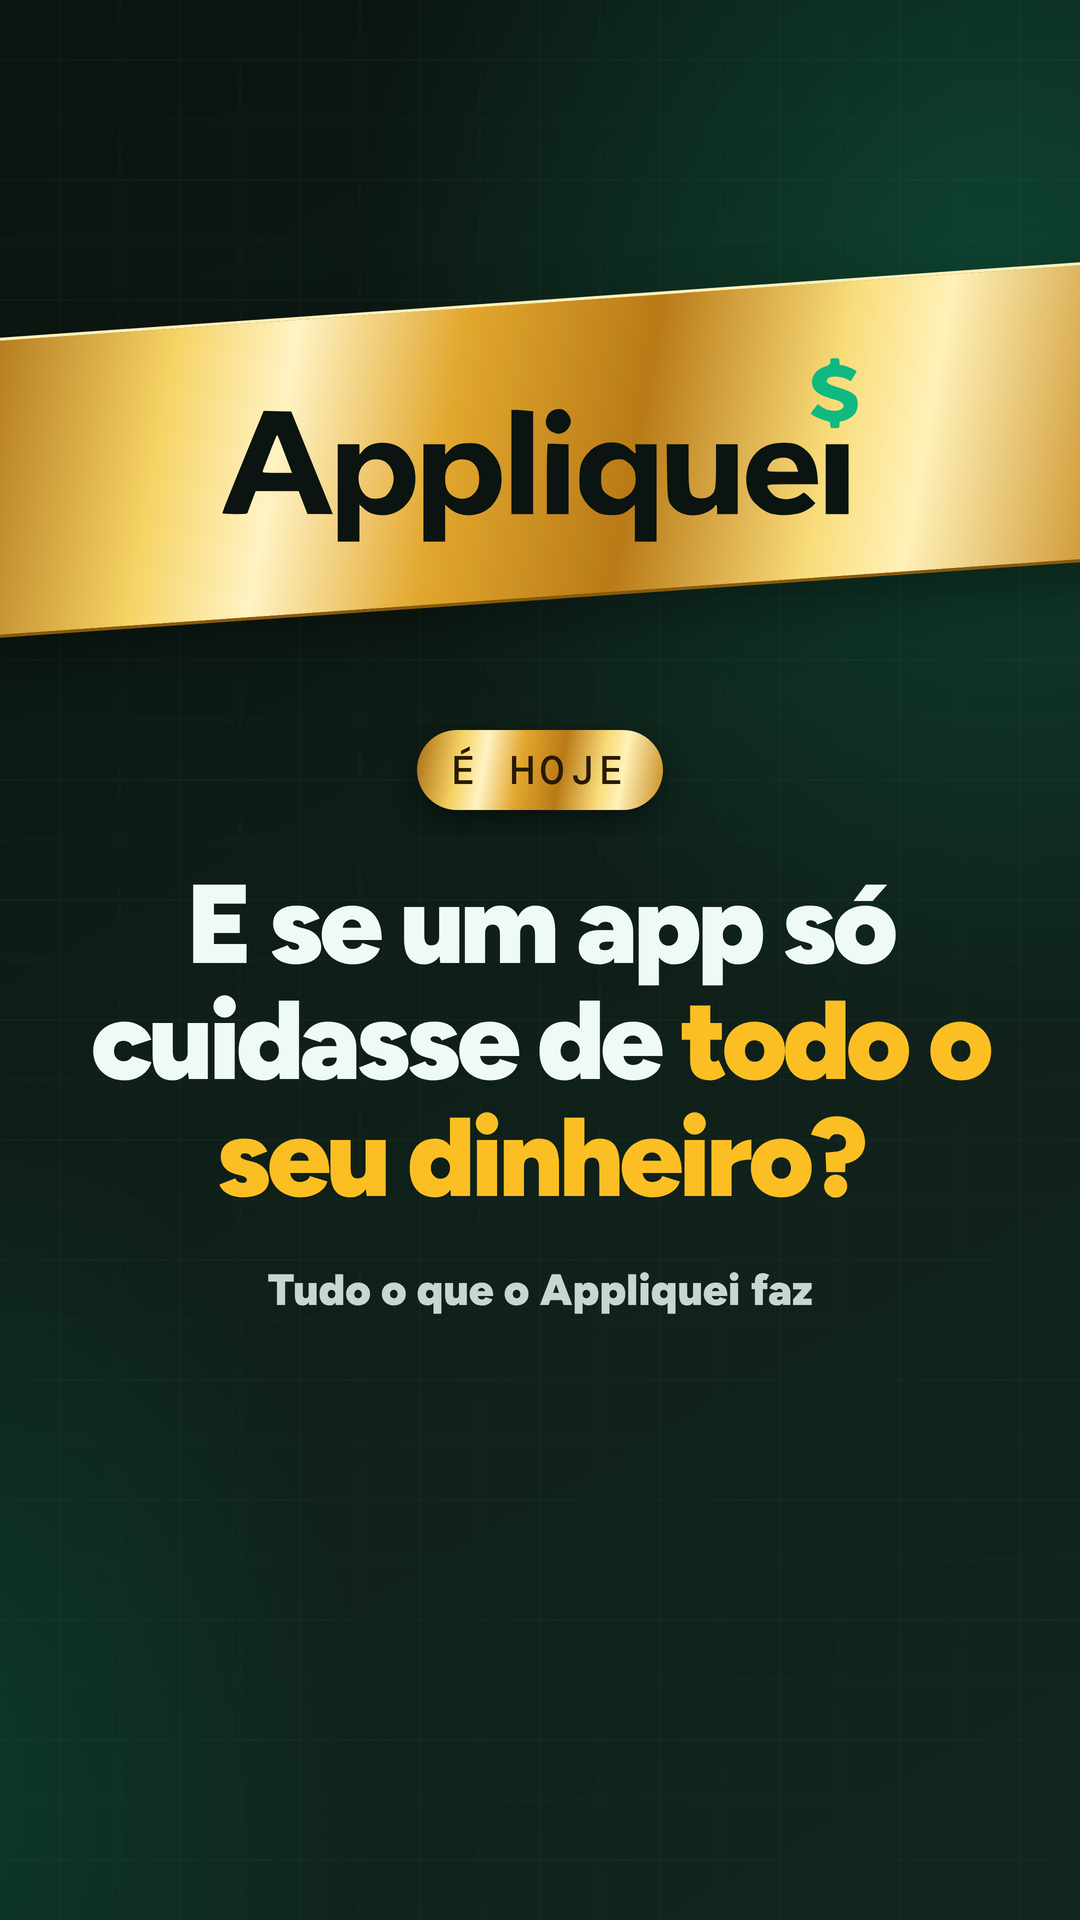
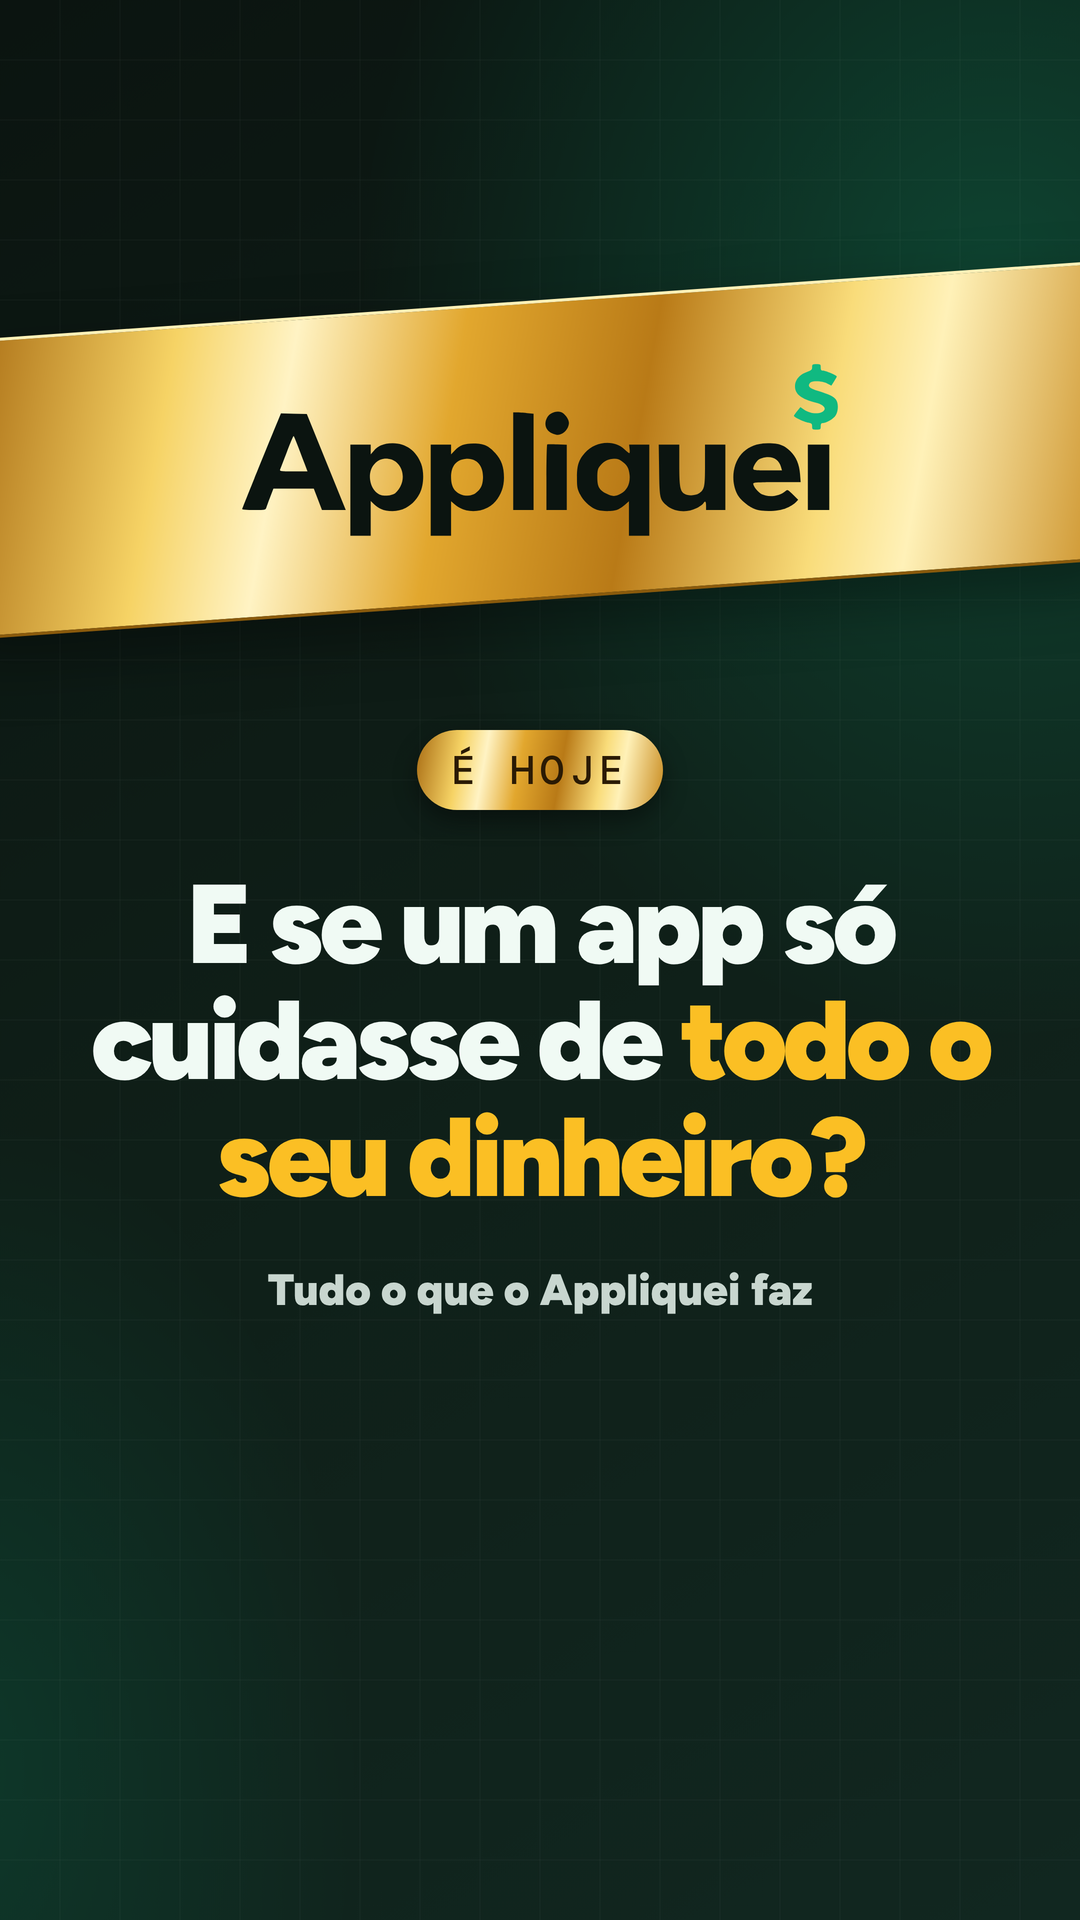
Marketing: padrão de capa registrado e capa de 02/01 refeita
Claude-Session: https://claude.ai/code/session_01Hjqp9BZBHRq7RefmKXkXic

Changed region(s): [[0.5194, 0.1875, 0.7944, 0.2812], [0.2139, 0.1875, 0.4889, 0.2812]]

diff --git a/marketing/conteudo/COMBINADOS.md b/marketing/conteudo/COMBINADOS.md
@@ -118,6 +118,12 @@ true`), mesmo modelo do News.
   ligado; no TikTok, "Permitir upload em alta qualidade".
 - **Capa** com a frase do gancho em todo vídeo (`capa.js`), na capa e no
   primeiro quadro (`appliquei-<tema>-com-capa.mp4`).
+- **Padrão da capa (fundador, 05/11):** faixa da série (News vermelha,
+  Explica verde, reta final dourada) com APPLIQUEI em 124 px, longe do canto
+  superior direito, onde o Instagram põe o ícone de Reel e o de fixado (antes
+  ele cobria o "I"). Já está no `capa.js`: toda capa nova sai assim. Conferir
+  no recorte 3:4 da grade antes de entregar. Nada de rótulo "Conta de
+  Padaria" nem capa sem faixa.
 - **Números conferidos com fonte** antes de gravar; aviso educacional e
   "Personagens fictícios" no fim; nada de recomendação (CVM).
 
